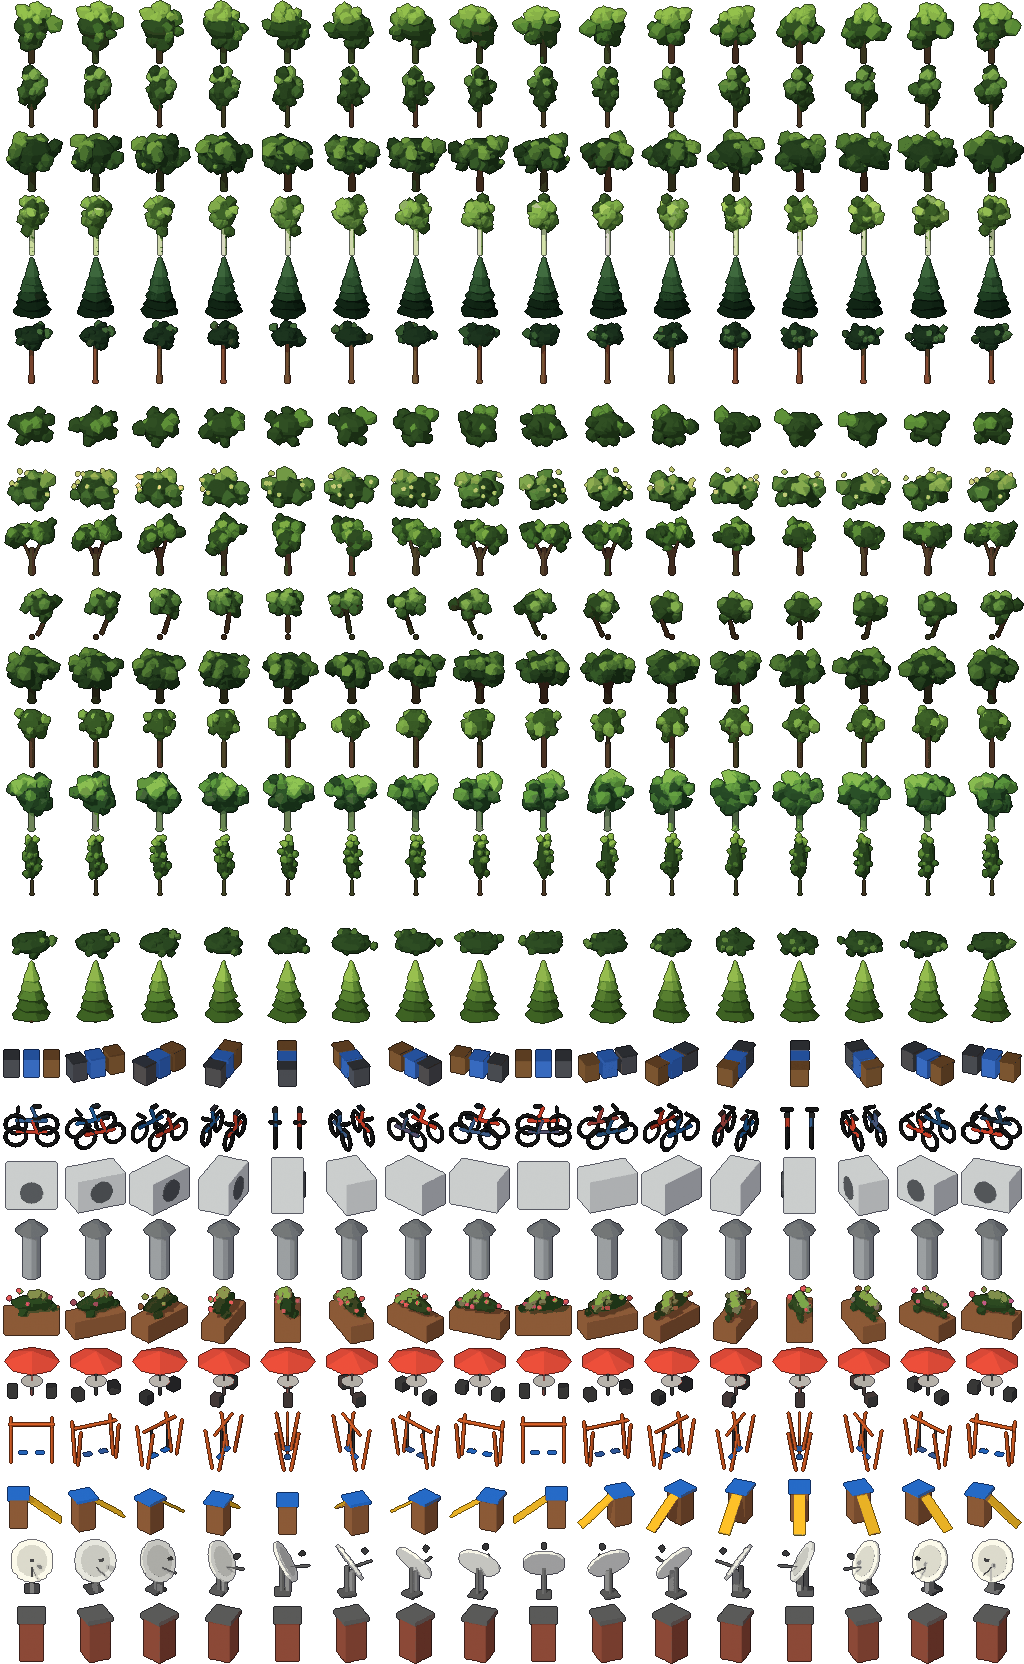
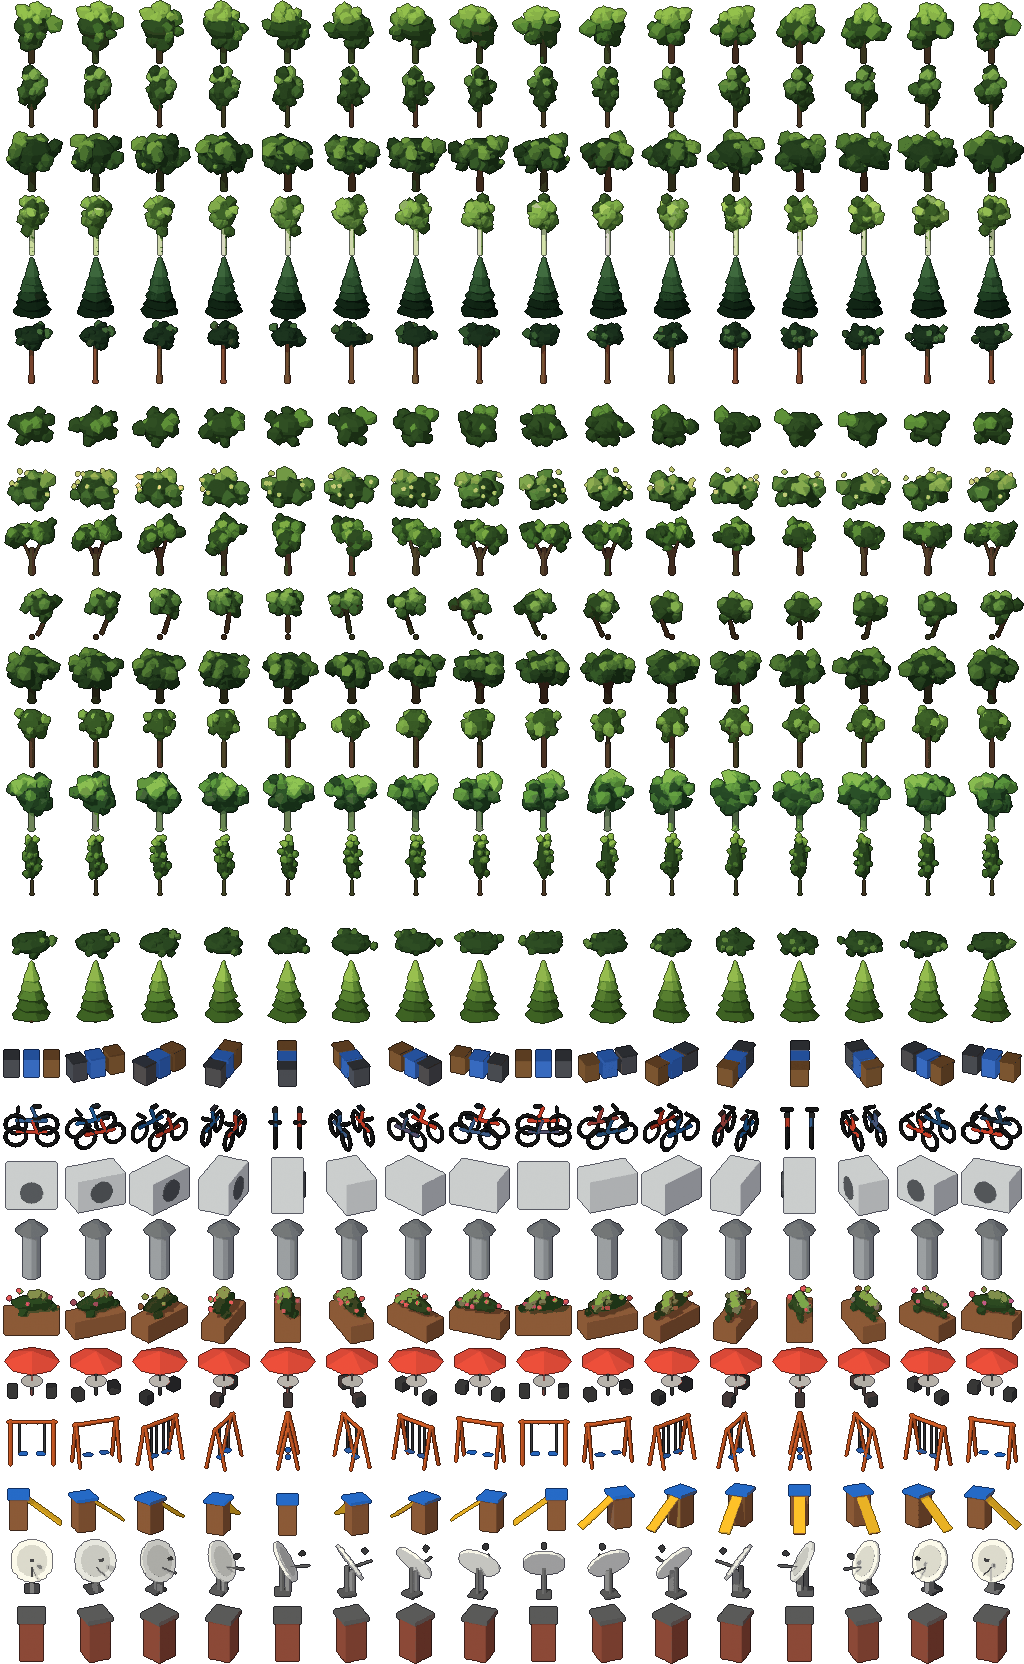
Runde 198: Schaukel-Modell korrigiert (Beine treffen sich unter dem Balken, flacher gerendert), Gewehr beim Weglaufen immer wie gewünscht

Changed region(s): [[0.0, 0.8438, 1.0, 0.9062]]

diff --git a/app.js b/app.js
@@ -213,7 +213,7 @@ function updateFar() {
 function makeWorker(lat, lon) {
   if (worker && workerOrigin && workerOrigin.lat === lat && workerOrigin.lon === lon) return;
   if (worker) worker.terminate();
-  worker = new Worker('worker.js?v=625' + (self.HX_AUSFALL ? '&ausfall=' + encodeURIComponent(new URLSearchParams(location.search).get('ausfall')) : '')); // Runde 120: simulated outages reach the worker too
+  worker = new Worker('worker.js?v=626' + (self.HX_AUSFALL ? '&ausfall=' + encodeURIComponent(new URLSearchParams(location.search).get('ausfall')) : '')); // Runde 120: simulated outages reach the worker too
   worker.onmessage = onData;
   workerOrigin = { lat, lon };
   worker.postMessage({ type: 'prefetch', lat, lon, terrain: TERRAIN, weld: WELD });
@@ -926,9 +926,12 @@ function aimHand(cam) { const s = HAND.spr; if (!s || HAND.id !== 'gewehr' || !s
   const W = innerWidth, H = innerHeight, sx = (_hb.x - _ha.x) * W, sy = (_hb.y - _ha.y) * H, L = Math.hypot(sx, sy), L0 = Math.hypot((_hc.x - _ha.x) * W, (_hc.y - _ha.y) * H) || 1;
   /* Runde 197 (phone: walking away from the camera, a slight turn flipped the rifle to the other side): mirrored only when the figure
      clearly looks left (with hysteresis); otherwise it stays on the right, up-right when looking away, down-right when looking at us */
-  const k = Math.max(.4, Math.min(1, L / L0)), m = s.material.map, w = s.userData.w, left = s.userData.left ? sx < -.25 * L0 : sx < -.5 * L0;
+  /* Runde 198 (phone: standing it looked short and flat, walking long and steep - the steep one is right): looking roughly away
+     from the camera (within ~50 deg) always gives that pose - full length, right side, 63 deg up; otherwise shortened at most to 75 % */
+  _hr.setFromMatrixColumn(cam.matrixWorld, 2); const cl = Math.hypot(_hr.x, _hr.z) || 1, away = -(fx * _hr.x + fz * _hr.z) / cl > .64;
+  const k = away ? 1 : Math.max(.75, Math.min(1, L / L0)), m = s.material.map, w = s.userData.w, left = !away && (s.userData.left ? sx < -.25 * L0 : sx < -.5 * L0);
   if (s.userData.left !== left) { s.userData.left = left; m.wrapS = THREE.RepeatWrapping; m.repeat.x = left ? -1 : 1; m.offset.x = left ? 1 : 0; m.needsUpdate = true; s.center.x = left ? .75 : .25; }
-  let ang = L < .25 * L0 ? 1.1 : left ? Math.atan2(-sy, -sx) : Math.atan2(sy, Math.max(sx, 0)); ang = Math.max(-1.1, Math.min(1.1, ang)); // never straight up or down; barely visible length: up-right
+  let ang = away || L < .25 * L0 ? 1.1 : left ? Math.atan2(-sy, -sx) : Math.atan2(sy, Math.max(sx, 0)); ang = Math.max(-1.1, Math.min(1.1, ang)); // never straight up or down; barely visible length: up-right
   s.material.rotation = ang; s.scale.set(1.05 * w * k, 1.05, 1); }
 function setItem(id) {
   if (!(id in ITEMS)) id = 'nichts'; HAND.id = id; store.set('hx.item', id);

diff --git a/index.html b/index.html
@@ -8,7 +8,7 @@
 <link rel="preconnect" href="https://fonts.googleapis.com">
 <link rel="preconnect" href="https://fonts.gstatic.com" crossorigin>
 <link rel="stylesheet" href="https://fonts.googleapis.com/css2?family=Atkinson+Hyperlegible:wght@400;700&family=Pixelify+Sans:wght@400;600&display=swap">
-<link rel="stylesheet" href="style.css?v=625">
+<link rel="stylesheet" href="style.css?v=626">
 </head>
 <body>
 <div id="app">
@@ -199,31 +199,31 @@
     </div>
   </div>
 </div>
-<script src="ausfall.js?v=625"></script>
+<script src="ausfall.js?v=626"></script>
 <!-- Runde 121: Bibliotheken liegen lokal in lib/ (gleiche Dateien wie cdnjs/jsdelivr, three r128); fehlt eine, springt das CDN ein -->
 <script src="lib/three.min.js?v=r128"></script>
 <script>window.THREE||document.write('<script src="https://cdnjs.cloudflare.com/ajax/libs/three.js/r128/three.min.js"><\/script>')</script>
 <script src="lib/GLTFLoader.js?v=r128"></script>
 <script>(window.THREE&&THREE.GLTFLoader)||document.write('<script src="https://cdn.jsdelivr.net/npm/three@0.128.0/examples/js/loaders/GLTFLoader.js"><\/script>')</script>
-<script src="ton.js?v=625"></script>
-<script src="sprites.js?v=625"></script>
-<script src="cars.js?v=625"></script>
-<script src="figur.js?v=625"></script>
-<script src="app.js?v=625"></script>
-<script src="schritte.js?v=625"></script>
-<script src="wetter.js?v=625"></script>
-<script src="zellen.js?v=625"></script>
-<script src="ladeinfo.js?v=625"></script>
-<script src="fahrzeuge.js?v=625"></script>
-<script src="oepnv.js?v=625"></script>
-<script src="traffic.js?v=625"></script>
-<script src="mittel_bau.js?v=625"></script>
-<script src="welten.js?v=625"></script>
-<script src="figureditor.js?v=625"></script>
-<script src="orte.js?v=625"></script>
-<script src="zurueck.js?v=625"></script>
-<script src="passanten.js?v=625"></script>
-<script src="gore.js?v=625"></script>
-<script src="tiere.js?v=625"></script>
+<script src="ton.js?v=626"></script>
+<script src="sprites.js?v=626"></script>
+<script src="cars.js?v=626"></script>
+<script src="figur.js?v=626"></script>
+<script src="app.js?v=626"></script>
+<script src="schritte.js?v=626"></script>
+<script src="wetter.js?v=626"></script>
+<script src="zellen.js?v=626"></script>
+<script src="ladeinfo.js?v=626"></script>
+<script src="fahrzeuge.js?v=626"></script>
+<script src="oepnv.js?v=626"></script>
+<script src="traffic.js?v=626"></script>
+<script src="mittel_bau.js?v=626"></script>
+<script src="welten.js?v=626"></script>
+<script src="figureditor.js?v=626"></script>
+<script src="orte.js?v=626"></script>
+<script src="zurueck.js?v=626"></script>
+<script src="passanten.js?v=626"></script>
+<script src="gore.js?v=626"></script>
+<script src="tiere.js?v=626"></script>
 </body>
 </html>

diff --git a/sprites.js b/sprites.js
@@ -155,9 +155,9 @@ function makeSpriteAtlas() {
   g.putImageData(img, 0, 0);
   const tex = new THREE.CanvasTexture(cv);
   // pixel-art cells rendered in Blender replace the hand-coded ones once loaded (the game runs with the coded ones meanwhile)
-  fetch('daten/sprites.json?v=3').then(r => r.ok ? r.json() : null).then(meta => { if (!meta) return;
+  fetch('daten/sprites.json?v=4').then(r => r.ok ? r.json() : null).then(meta => { if (!meta) return;
     const im = new Image(); im.onload = () => { for (const n of meta.cells) { const x = (n % SPRITE_COLS) * SPRITE_PX, y = Math.floor(n / SPRITE_COLS) * SPRITE_PX; g.clearRect(x, y, SPRITE_PX, SPRITE_PX); g.drawImage(im, x, y, SPRITE_PX, SPRITE_PX, x, y, SPRITE_PX, SPRITE_PX); } tex.needsUpdate = true; };
-    im.src = 'daten/sprites.png?v=3'; }).catch(() => {});
+    im.src = 'daten/sprites.png?v=4'; }).catch(() => {});
   tex.magFilter = THREE.NearestFilter; tex.minFilter = THREE.NearestFilter; tex.generateMipmaps = false;
   tex.wrapS = tex.wrapT = THREE.ClampToEdgeWrapping;
   return tex;
@@ -173,8 +173,8 @@ const spriteUniforms = {
    playground, parasols, roof props. Row = asset (dirs16.json "slots": type -> row), column = view (every 22.5 deg). The shader picks the
    view from the angle between camera and object (+ a fixed random turn per object) and blends into the next view with a pixel pattern
    just around the switch, so crowns don't jump when the camera turns. Same cost as before: one quad per object, one more texture. */
-fetch('daten/dirs16.json?v=2').then(r => r.ok ? r.json() : null).then(meta => { if (!meta) return;
-  new THREE.TextureLoader().load('daten/dirs16.png?v=2', t => { t.magFilter = t.minFilter = THREE.NearestFilter; t.generateMipmaps = false; t.wrapS = t.wrapT = THREE.ClampToEdgeWrapping;
+fetch('daten/dirs16.json?v=3').then(r => r.ok ? r.json() : null).then(meta => { if (!meta) return;
+  new THREE.TextureLoader().load('daten/dirs16.png?v=3', t => { t.magFilter = t.minFilter = THREE.NearestFilter; t.generateMipmaps = false; t.wrapS = t.wrapT = THREE.ClampToEdgeWrapping;
     const sl = new Array(48).fill(-1); for (const k in meta.slots) sl[+k] = meta.slots[k];
     spriteUniforms.uSlot.value = sl; spriteUniforms.uDirRows.value = meta.rows; spriteUniforms.uTrees.value = t; spriteUniforms.uTreesOn.value = 1; window.HX_DIRS = true; }); }).catch(() => {});
 const spriteMat = new THREE.ShaderMaterial({

diff --git a/worker.js b/worker.js
@@ -7,7 +7,7 @@
  */
 'use strict';
 try { importScripts('lib/earcut.min.js?v=2.2.4'); } catch (e) { importScripts('https://cdn.jsdelivr.net/npm/earcut@2.2.4/dist/earcut.min.js'); } // Runde 121: local copy first, CDN as fallback
-importScripts('ausfall.js?v=625'); // Runde 120: ?ausfall=... test switch (does nothing without it)
+importScripts('ausfall.js?v=626'); // Runde 120: ?ausfall=... test switch (does nothing without it)
 
 const R = 6378137, WORLD = 2 * Math.PI * R, HALF = WORLD / 2;
 let TILEJSON = 'https://tiles.openfreemap.org/planet';
